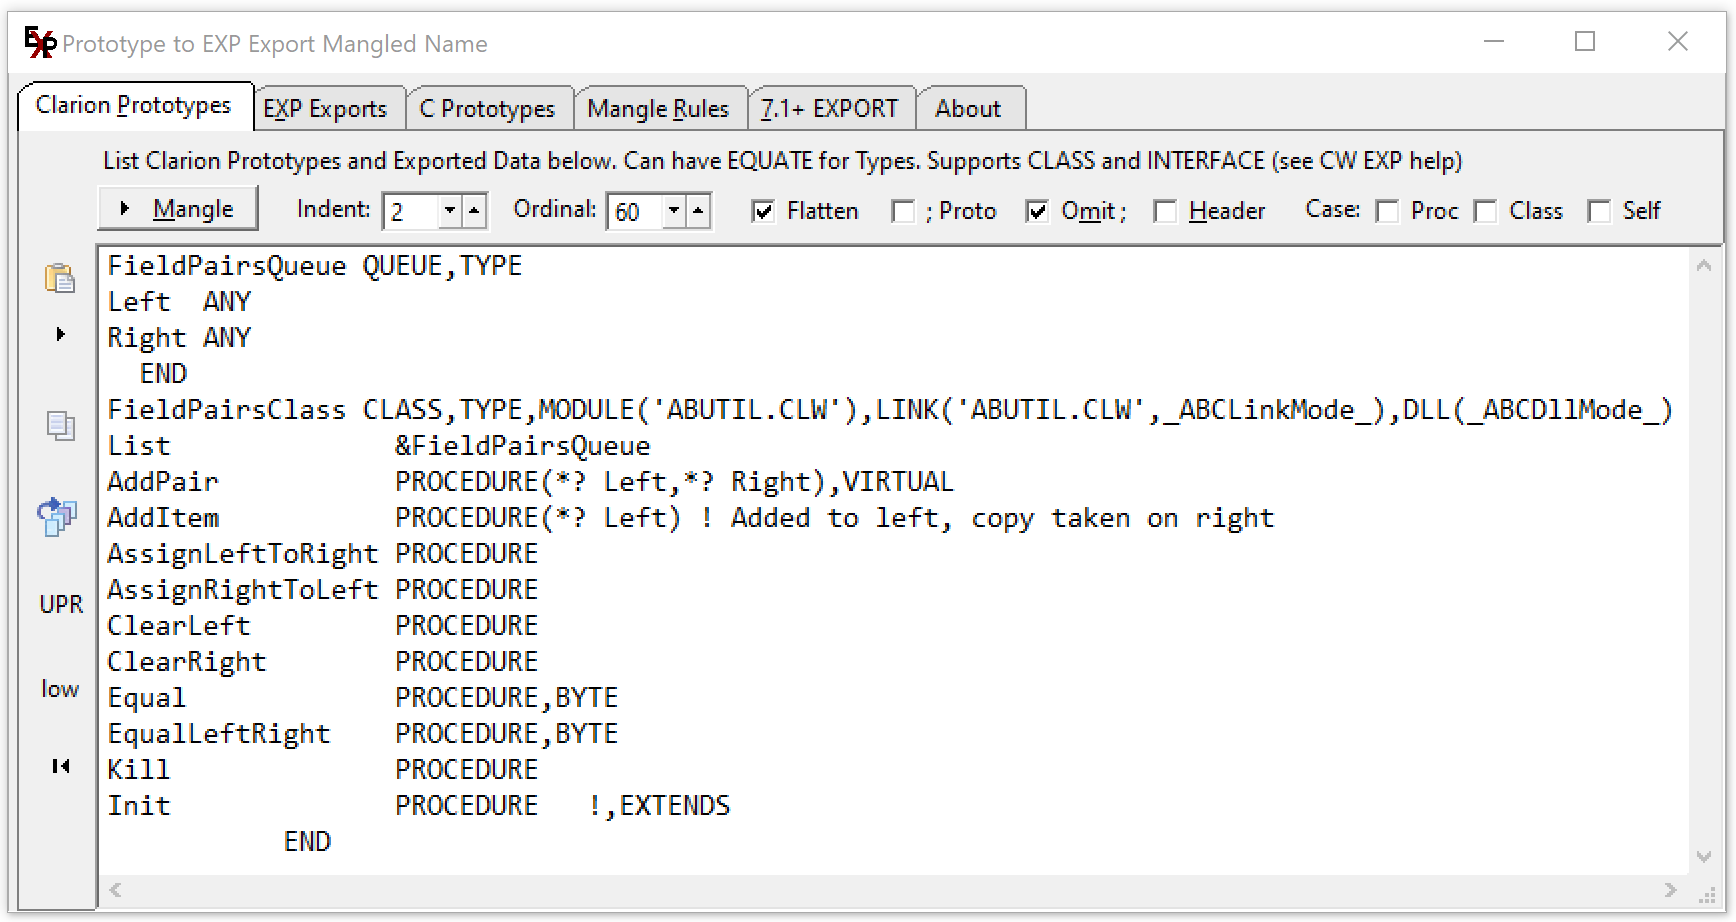
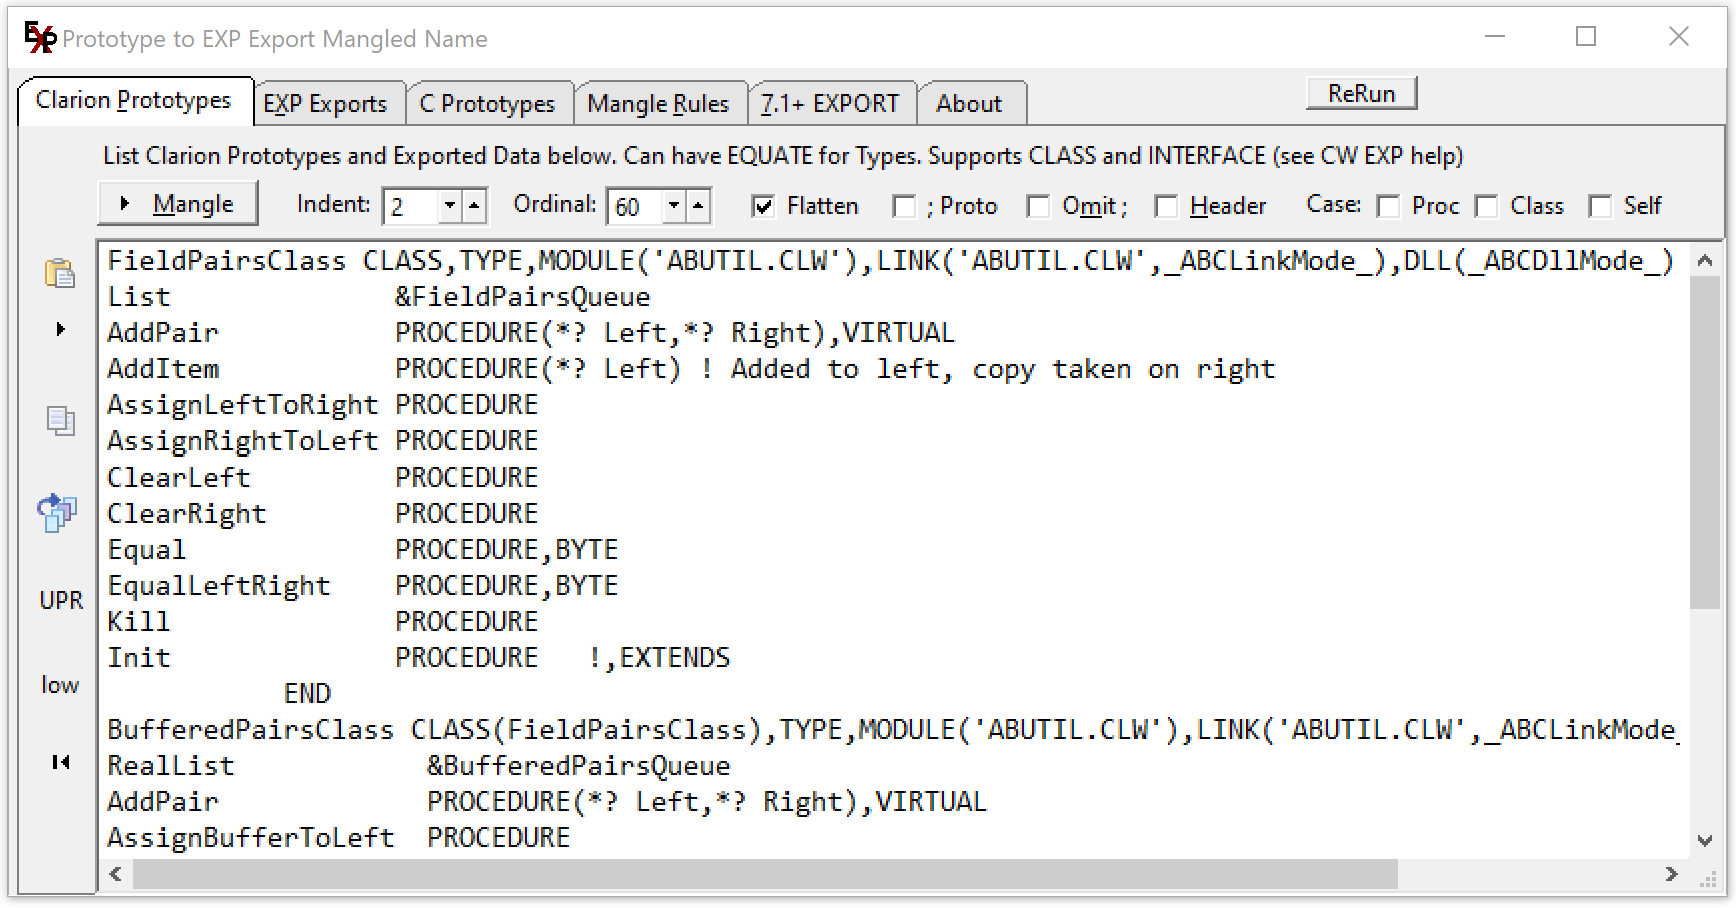
TYPE data is not in EXP

Changed region(s): [[0.0, 0.0, 0.9954, 1.0]]

diff --git a/README.md b/README.md
@@ -1,9 +1,36 @@
-# Prototype2Export-Pro2Exp
+## Prototype2Export-Pro2Exp
  Prototype to Mangled Export for EXP file - Pro2Exp
 
 Paste in Procedure Prototypes and click Mangle. The EXP Exports tab has the mangled lines.
- Based on work by Lee White and Jeff Slarve.
+ This is intended for Procedures but it will do Data. 
+ For GROUP and QUEUE do not list the contained data declarions nor the END.
+ TYPE data is never exported, it only appeears in INC files.
+ 
+This is based on prior work by Lee White and Jeff Slarve. Thanks!
 
 ![readme1](images/readme1.png)
 
 ![readme2](images/readme2.png)
+
+### Checkbox "; Proto"
+
+Check the "; Proto" box to have comment lines inserted into the EXP showing the original Prototype.
+ This makes it easy to see how various data types are mangled e.g. *? is Ru.
+ All the types are listed on the "Mangle Rules" tab. 
+
+![readme3](images/readme3.png)
+
+---
+
+### EXPORT Attribute on Data and Prototypes
+
+Read the "7.1 EXPORT" tab and below blog for information on the new EXPORT declaration.
+
+http://clarionsharp.com/blog/71-preliminary-release-notes-and-a-happy-thanksgiving
+
+FEATURE: 
+New attribute for procedure prototypes and static variables declarations: EXPORT.
+ The EXPORT attribute forces the variable or procedure to be added to the export
+ list of the DLL even if it is not listed in the EXPORTS section of the EXP file.
+
+
